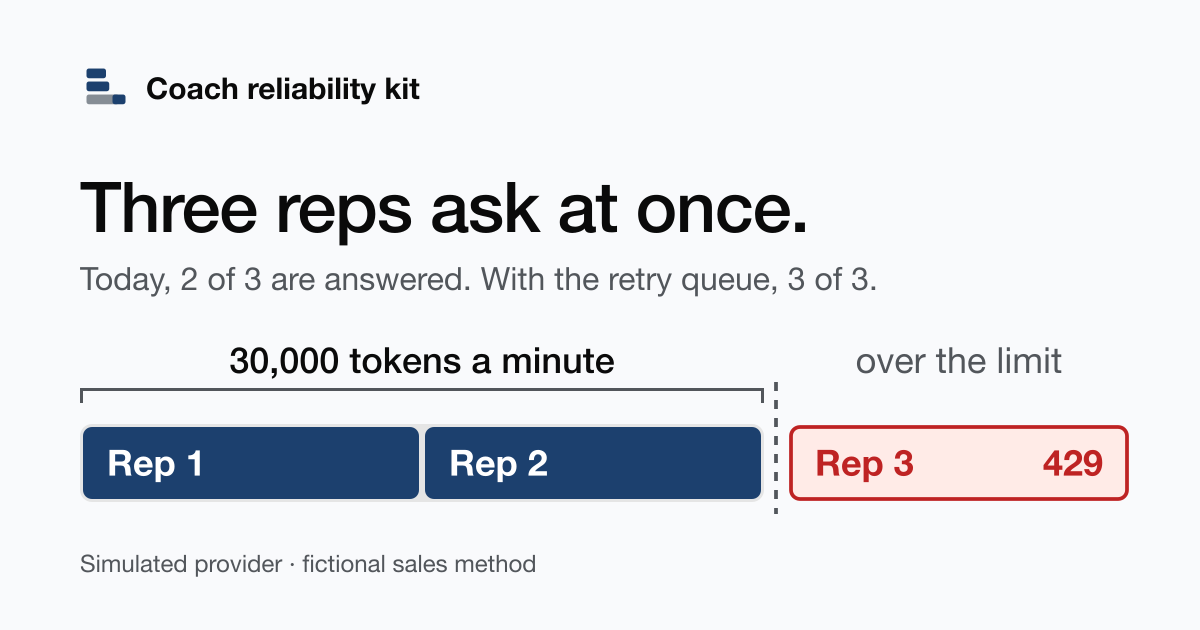
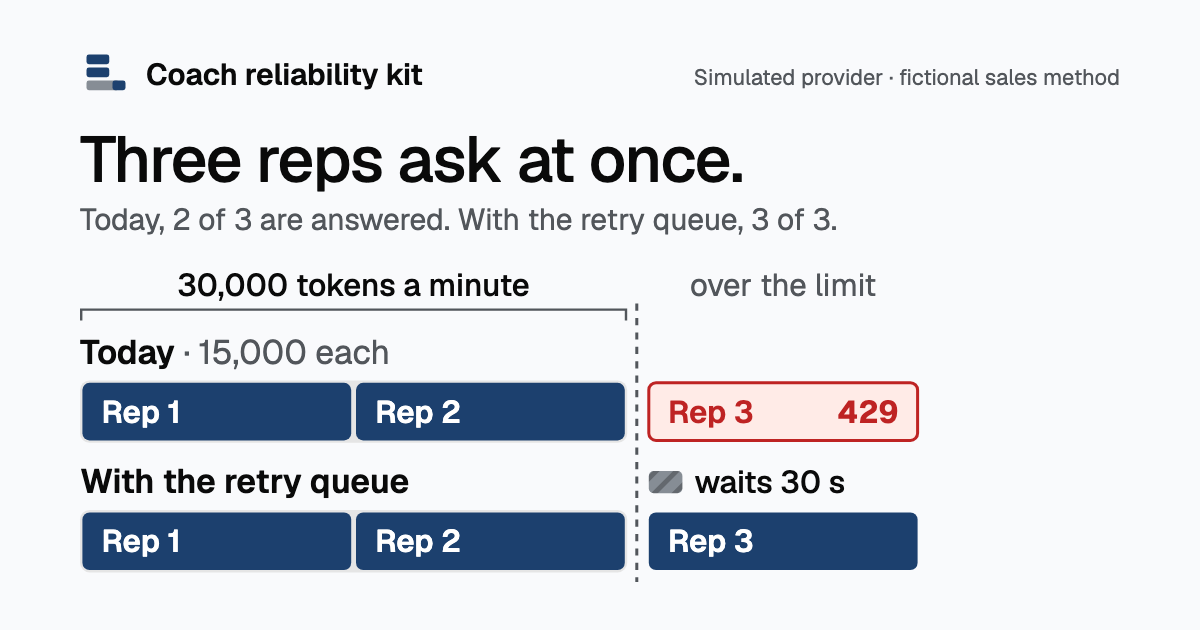
Social card: picture the retry-queue row as well, set in Geist
The card showed only today's 429; it now has the 'With the retry queue'
row under it, so a small unfurl shows 3 of 3. og-render.mjs renders it in
Chromium with the Geist woff2 from the last build, and build.sh falls back
to Inkscape when there is no build.

diff --git a/design/og.py b/design/og.py
@@ -1,34 +1,46 @@
-"""The 1200x630 social preview card, built from the mark and the first row of the token-budget diagram.
+"""The 1200x630 social preview card, built from the mark and the first two rows of the token-budget diagram.
 
+The picture shows both outcomes: today Rep 3 gets a 429; with the retry queue it waits, then is answered.
 The 2 of 3 and 3 of 3 come from the seeded burst (seed 7) that the home page shows.
-Writes design/out/og.svg; build.sh renders it to src/app/opengraph-image.png.
+Writes design/out/og.svg; build.sh renders it to src/app/opengraph-image.png (og-render.mjs, in Geist).
 """
 
 from pathlib import Path
 
 from mark import GRID, mark_rects
 from palette import CANVAS, FONT_STACK, MUTED_FOREGROUND
-from token_budget import BAR_H, TRACK_X, defs, limit_line, scale_labels, text, today_row
+from token_budget import BAR_H, PER_REQUEST, TRACK_X, defs, limit_line, queue_row, row_title, scale_labels, text, today_row
 
 OUT = Path(__file__).resolve().parent / "out"
 
 WIDTH, HEIGHT = 1200, 630
 MARGIN = 80
 MARK_SIZE = 52
-DIAGRAM_SCALE = 3
+DIAGRAM_SCALE = 2.4  # labels stay about 10 px in a 400 px wide unfurl
+DIAGRAM_Y = 270
+FIRST_BAR = 46  # in diagram units, under the scale labels
+ROW_GAP = 54  # a little tighter than the page figure's 60
 
 
 def card() -> str:
-    bar_y = 28  # the row sits just under the scale labels
-    diagram = [defs(), limit_line(14, bar_y + BAR_H + 4), *scale_labels(), *today_row(bar_y)]
+    second_bar = FIRST_BAR + ROW_GAP
+    diagram = [
+        defs(),
+        limit_line(14, second_bar + BAR_H + 4),
+        *scale_labels(),
+        row_title(FIRST_BAR - 7, "Today", f"{PER_REQUEST:,} each"),
+        *today_row(FIRST_BAR),
+        row_title(second_bar - 7, "With the retry queue"),
+        *queue_row(second_bar),
+    ]
     body = [
         f'<rect width="{WIDTH}" height="{HEIGHT}" fill="{CANVAS}"/>',
-        f'<g transform="translate({MARGIN} 62) scale({MARK_SIZE / GRID:g})">{"".join(mark_rects())}</g>',
-        text(MARGIN + MARK_SIZE + 14, 99, "Coach reliability kit", size=30, weight=600),
-        text(MARGIN, 232, "Three reps ask at once.", size=70, weight=500, extra=' letter-spacing="-1.2"'),
-        text(MARGIN, 290, "Today, 2 of 3 are answered. With the retry queue, 3 of 3.", size=32, fill=MUTED_FOREGROUND),
-        f'<g transform="translate({MARGIN - TRACK_X * DIAGRAM_SCALE} 340) scale({DIAGRAM_SCALE})">{"".join(diagram)}</g>',
-        text(MARGIN, 572, "Simulated provider · fictional sales method", size=24, fill=MUTED_FOREGROUND),
+        f'<g transform="translate({MARGIN} 48) scale({MARK_SIZE / GRID:g})">{"".join(mark_rects())}</g>',
+        text(MARGIN + MARK_SIZE + 14, 85, "Coach reliability kit", size=30, weight=600),
+        text(WIDTH - MARGIN, 85, "Simulated provider · fictional sales method", size=22, fill=MUTED_FOREGROUND, anchor="end"),
+        text(MARGIN, 182, "Three reps ask at once.", size=64, weight=500, extra=' letter-spacing="-1.1"'),
+        text(MARGIN, 230, "Today, 2 of 3 are answered. With the retry queue, 3 of 3.", size=30, fill=MUTED_FOREGROUND),
+        f'<g transform="translate({MARGIN - TRACK_X * DIAGRAM_SCALE:g} {DIAGRAM_Y}) scale({DIAGRAM_SCALE:g})">{"".join(diagram)}</g>',
     ]
     inner = "\n  ".join(body)
     return (
